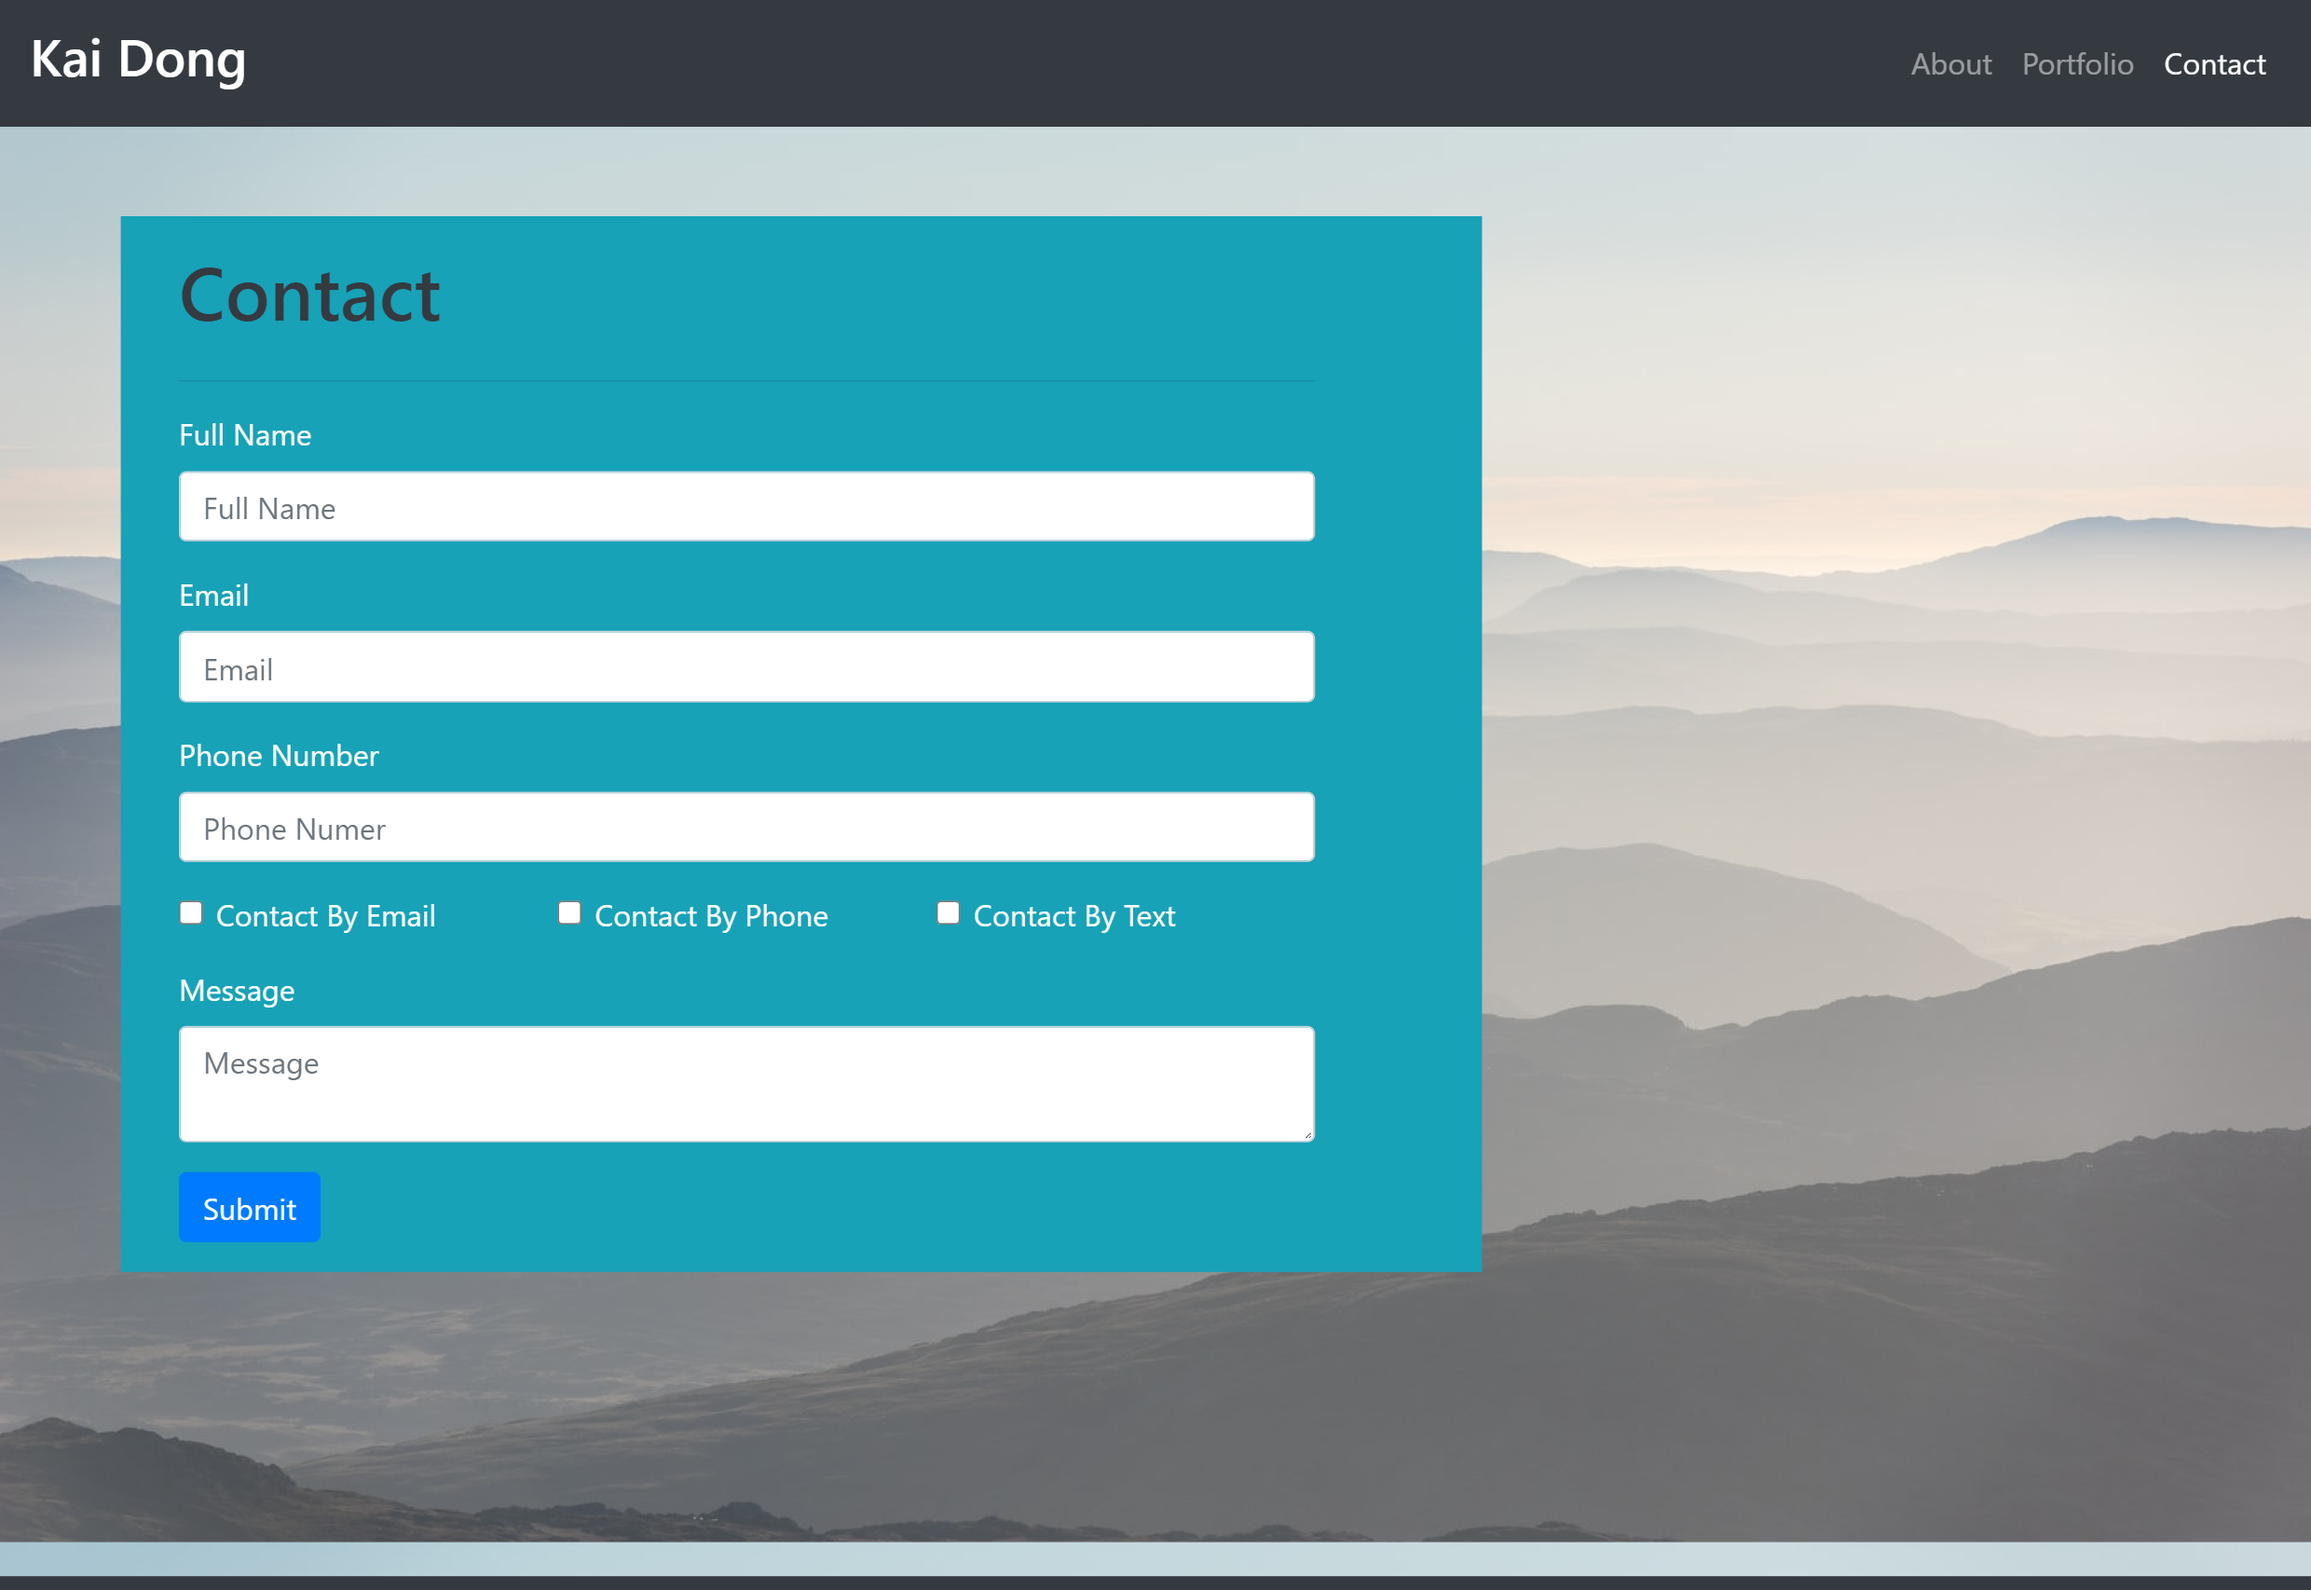
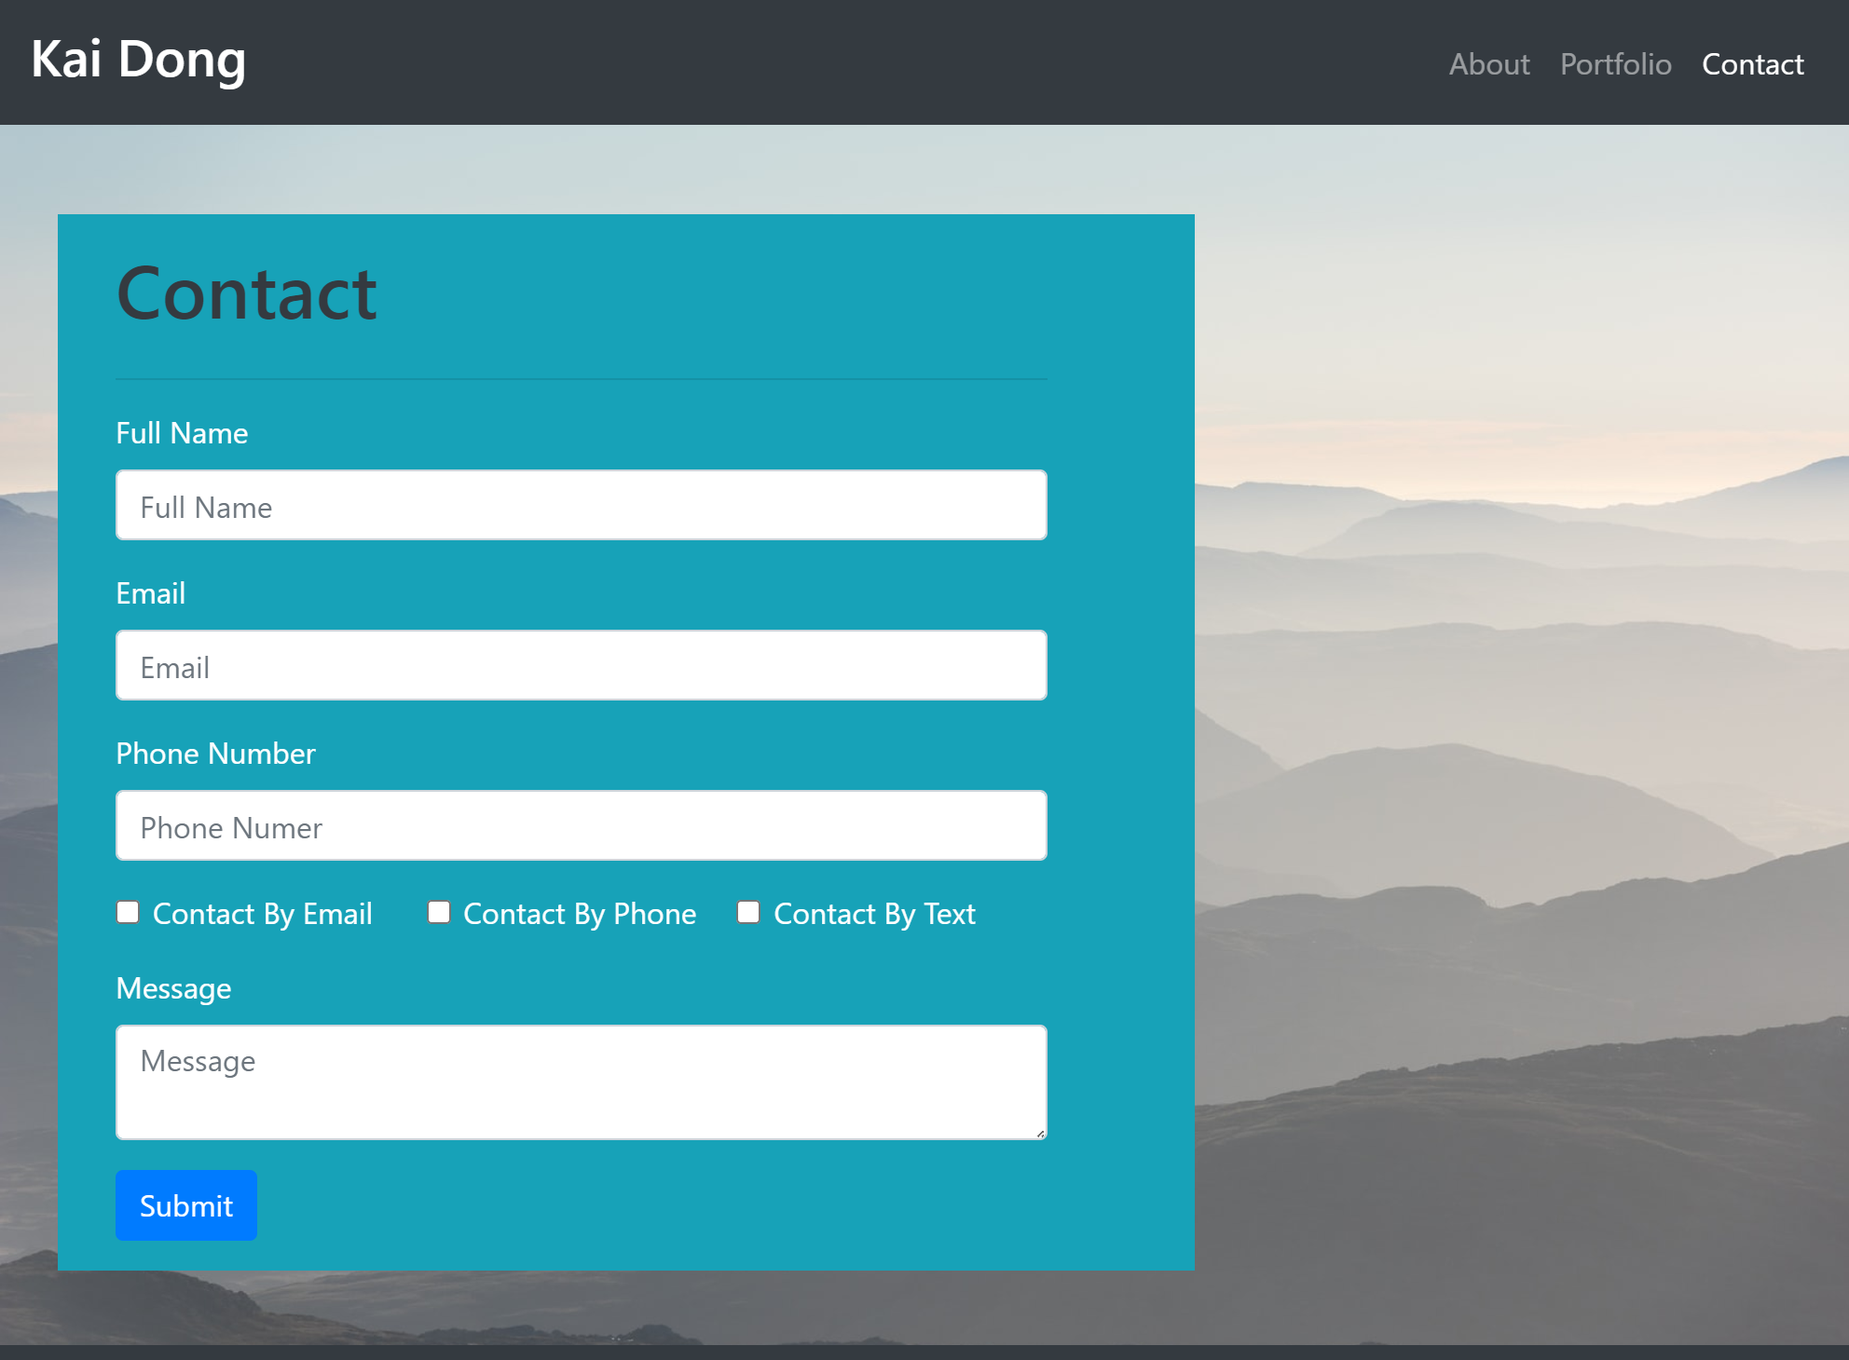
Added mb to contact, updated screen shots

diff --git a/contact.html b/contact.html
@@ -46,7 +46,7 @@
             <div class="col-md-8 col-lg-8">
 
                 <!-- Sub container and column defined for fitment and style -->
-                <div class="container mt-5 p-3 bg-info text-white">
+                <div class="container mt-5 mb-5 p-3 bg-info text-white">
                     <div class="col-md-8 col-lg-11">
 
                         <!-- Contact Header -->
